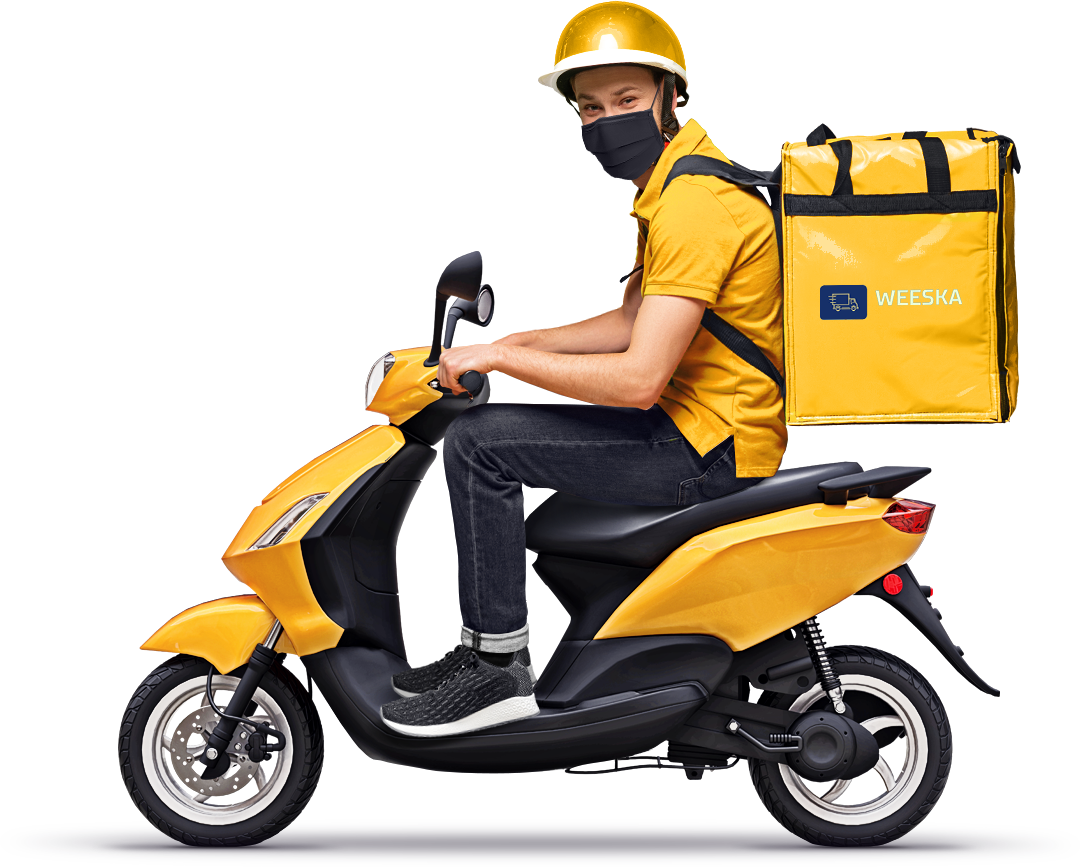
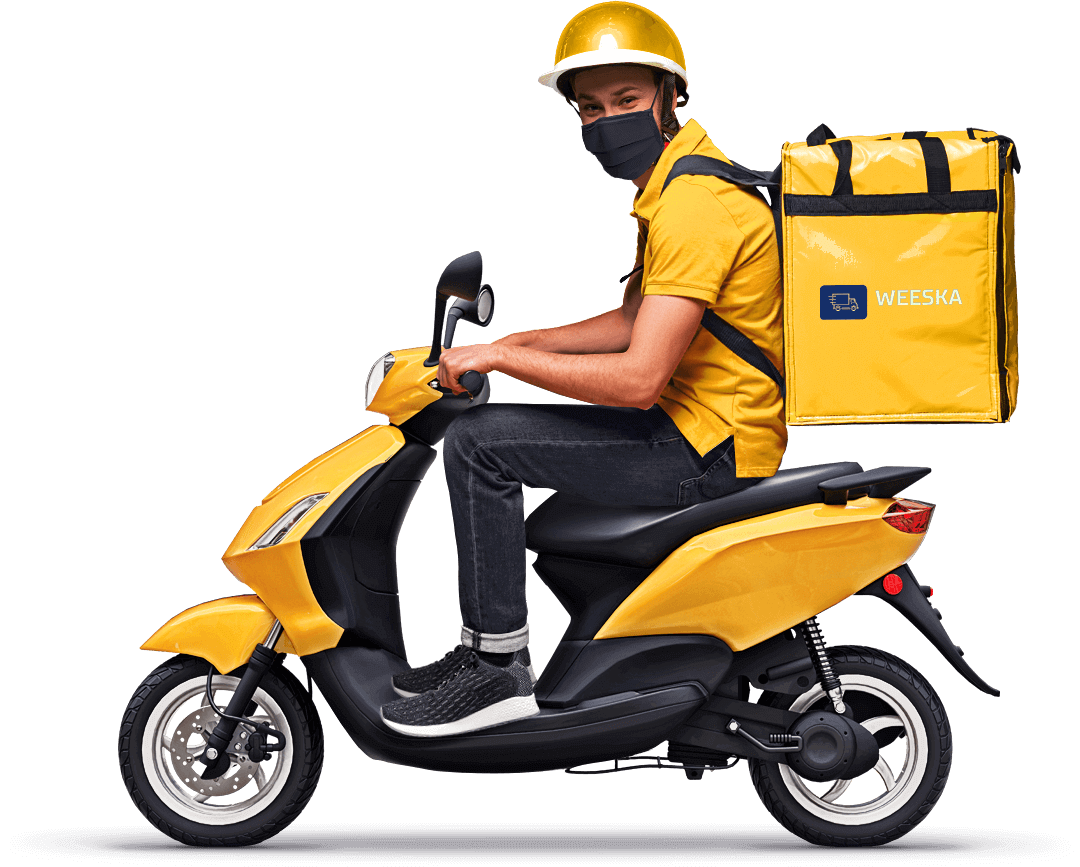
fixed image colours

Changed region(s): [[0.3972, 0.2803, 0.6722, 0.4983], [0.5194, 0.0623, 0.6417, 0.1557]]

diff --git a/index.html b/index.html
@@ -47,8 +47,7 @@
 			<div class="elementor-element elementor-element-953a708 lte-heading-style-default animated-slow elementor-invisible elementor-widget elementor-widget-lte-header" data-id="953a708" data-element_type="widget" data-settings="{&quot;_animation&quot;:&quot;fadeIn&quot;,&quot;_animation_delay&quot;:300}" data-widget_type="lte-header.default"><div class="elementor-widget-container"><div class="lte-heading lte-size-lg lte-style-default lte-color-main lte-subcolor-white heading-tag-h1 heading-subtag-h6"><span class="lte-heading-content"><h1 class="lte-header"><span> Swift,Efficient </span>
 				<br /> Errand & Delivery</h1>
 			</span></div></div></div><div class="elementor-element elementor-element-b4dcd3b elementor-widget__width-initial animated-slow elementor-invisible elementor-widget elementor-widget-text-editor" data-id="b4dcd3b" data-element_type="widget" data-settings="{&quot;_animation&quot;:&quot;fadeIn&quot;,&quot;_animation_delay&quot;:600}" data-widget_type="text-editor.default"><div class="elementor-widget-container"><div class="elementor-text-editor elementor-clearfix"><p><span class="color-white">A better way to get your job done and delivered confiniently with zero stress. Redefined errand & delivery system that is reliable, swift and efficient, delivering accurately and in no time.</span></p></div></div>
-		</div><div class="elementor-element elementor-element-cd6f7b7 elementor-widget elementor-widget-spacer" data-id="cd6f7b7" data-element_type="widget" data-widget_type="spacer.default"><div class="elementor-widget-container"><div class="elementor-spacer"><div class="elementor-spacer-inner"></div></div></div></div><div class="elementor-element elementor-element-2a188b7 elementor-widget elementor-widget-spacer" data-id="2a188b7" data-element_type="widget" data-widget_type="spacer.default"><div class="elementor-widget-container"><div class="elementor-spacer"><div class="elementor-spacer-inner"></div></div></div></div></div></div></div><div class="elementor-element elementor-element-895faab lte-moto-col elementor-column elementor-col-50 elementor-inner-column" data-id="895faab" data-element_type="column"><div class="elementor-column-wrap  elementor-element-populated"><div class="elementor-widget-wrap"><div class="elementor-element elementor-element-04ddb97 lte-slider-moto elementor-invisible elementor-widget elementor-widget-image" data-id="04ddb97" data-element_type="widget" data-settings="{&quot;_animation&quot;:&quot;slideInRight&quot;,&quot;_animation_delay&quot;:300}" data-widget_type="image.default"><div class="elementor-widget-container"><div class="elementor-image"> <img width="1080" height="867" src="
-		/wp-content/uploads/2020/04/slider-courier-mask.png" class="attachment-full size-full" alt="" 
+		</div><div class="elementor-element elementor-element-cd6f7b7 elementor-widget elementor-widget-spacer" data-id="cd6f7b7" data-element_type="widget" data-widget_type="spacer.default"><div class="elementor-widget-container"><div class="elementor-spacer"><div class="elementor-spacer-inner"></div></div></div></div><div class="elementor-element elementor-element-2a188b7 elementor-widget elementor-widget-spacer" data-id="2a188b7" data-element_type="widget" data-widget_type="spacer.default"><div class="elementor-widget-container"><div class="elementor-spacer"><div class="elementor-spacer-inner"></div></div></div></div></div></div></div><div class="elementor-element elementor-element-895faab lte-moto-col elementor-column elementor-col-50 elementor-inner-column" data-id="895faab" data-element_type="column"><div class="elementor-column-wrap  elementor-element-populated"><div class="elementor-widget-wrap"><div class="elementor-element elementor-element-04ddb97 lte-slider-moto elementor-invisible elementor-widget elementor-widget-image" data-id="04ddb97" data-element_type="widget" data-settings="{&quot;_animation&quot;:&quot;slideInRight&quot;,&quot;_animation_delay&quot;:300}" data-widget_type="image.default"><div class="elementor-widget-container"><div class="elementor-image"> <img width="1080" height="867" src="/wp-content/uploads/2020/04/slider-courier-mask.png" class="attachment-full size-full" alt="" 
 		sizes="(max-width: 1080px) 100vw, 1080px" /></div></div></div></div></div></div></div></div></section></div></div></div></div></div></section><section class="elementor-element elementor-element-6916393 elementor-section-boxed elementor-section-height-default elementor-section-height-default elementor-section elementor-top-section" data-id="6916393" data-element_type="section"><div class="elementor-container elementor-column-gap-default"><div class="elementor-row"><div class="elementor-element elementor-element-b8a7ac2 elementor-column elementor-col-100 elementor-top-column" data-id="b8a7ac2" data-element_type="column"><div class="elementor-column-wrap  elementor-element-populated"><div class="elementor-widget-wrap"><div class="elementor-element elementor-element-1dc822c elementor-widget elementor-widget-lte-product-categories" data-id="1dc822c" data-element_type="widget" data-widget_type="lte-product-categories.default"><div class="elementor-widget-container"><div class="lte-products-cats-sc row lte-layout-solid"><div class="col-lg-3 col-md-6 col-sm-6 col-ms-12 col-xs-12"><a href="
 		/product-category/fastfood/" class="lte-item">
 		<span class="lte-icon-wrapper" style="display: flex; justify-content: center; align-items: center;">
@@ -112,6 +111,11 @@
 			
 			.mobile-width{
 				width: 60%;
+			}
+
+			.mobile-width{
+				padding: 20px !important;
+
 			}
 
 			@media screen and (max-width: 950px) {
@@ -209,9 +213,9 @@ After a series of research and analysis on delivery services in Nigeria, I and m
 				<section class="lte-background-gray elementor-element elementor-element-a9aa17d lte-background-gray elementor-section-boxed elementor-section-height-default elementor-section-height-default elementor-section elementor-top-section">
 			<div class="elementor-container elementor-column-gap-default">
 				<div class="elementor-row">
-					<div class="elementor-element elementor-element-f0ee617" style="width: 100%; text-align: justify;">	
-										<div class="white-paper-description">
-							<div class="white-paper-cont mobile-width">
+					<div class="elementor-element elementor-element-f0ee617" style="width: 100% !important; text-align: justify;">	
+										<div class="white-paper-description" style="width: 100% !important; text-align: justify;">
+							<div class="white-paper-cont mobile-width" style="width: 100% !important; text-align: justify;">
 								<h5><span class="fa fa-check"></span> Our Solution</h5>
 								<p class="white-paper">
 							Solving the problem of locating an address is trivial in the Nigerian delivery system also not just locating the address but locating it on time, Here is what our project proposes: Solving Delivery Nightmare in Nigeria with Mobile and Offline Technologies, we want to create a delivery service you can trust for fast and slick delivery.
